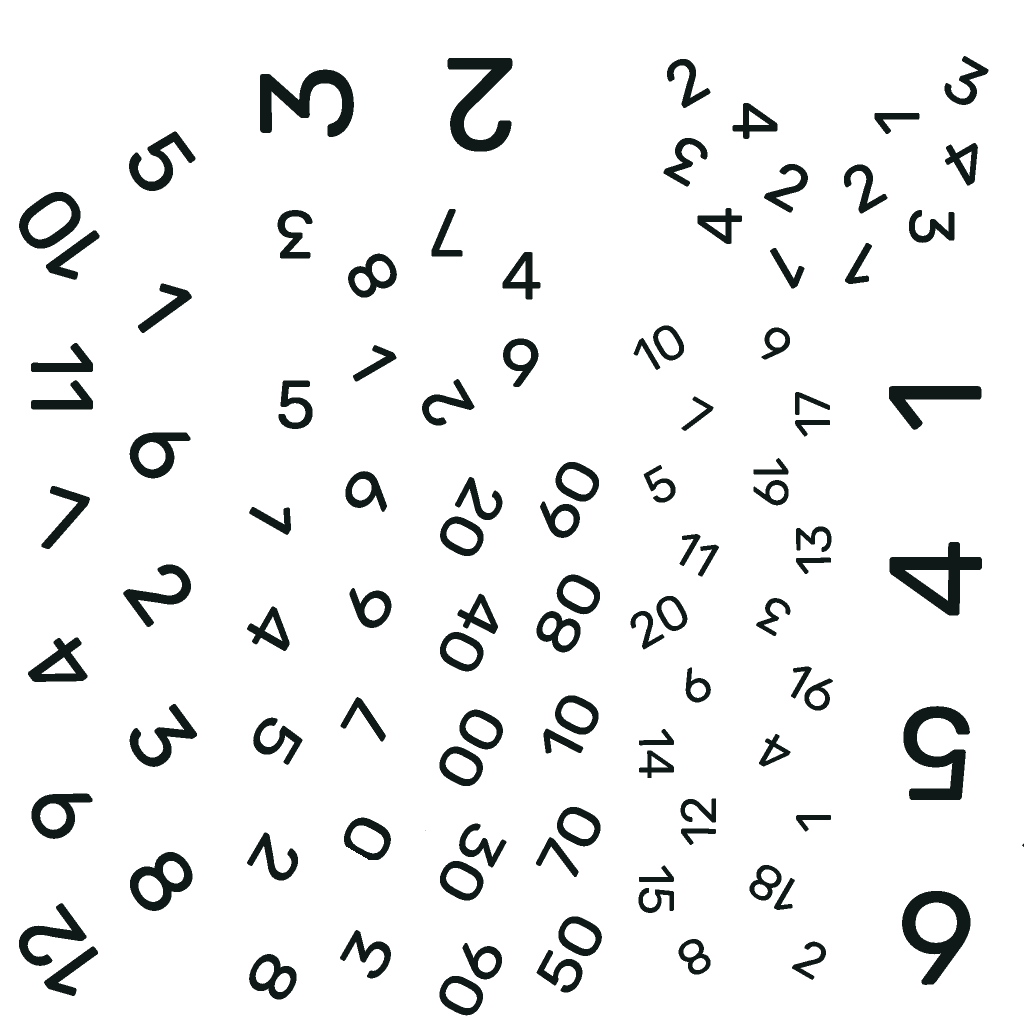
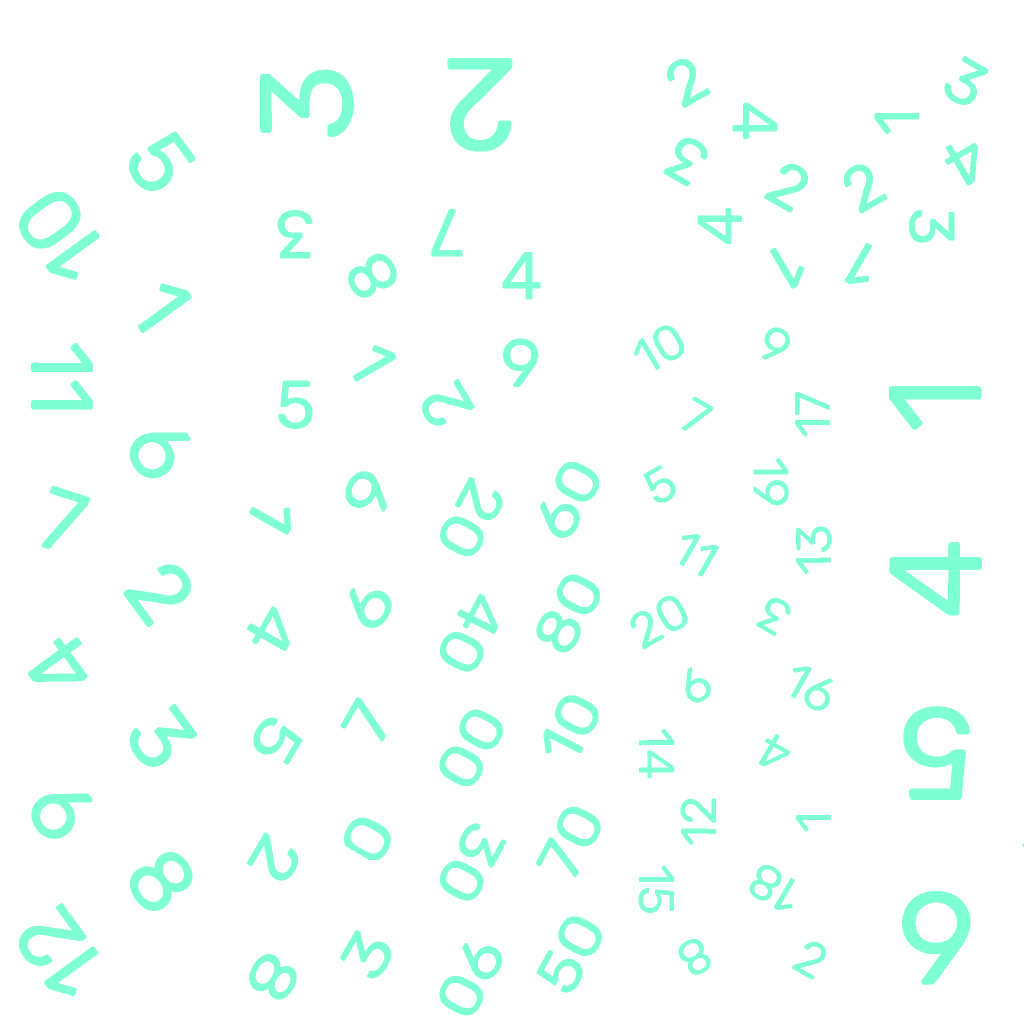
style(initiative): match player die to Add New Token button colors and opponent die to #202020 with #33b8bd numbers

diff --git a/client/src/views/SpaceVttView.vue b/client/src/views/SpaceVttView.vue
@@ -1654,8 +1654,8 @@ async function rollInitiative() {
 
   try {
     const results = await executeQueuedDiceRoll(diceBox, [
-      { sides: 10, theme: 'custom-init-player', themeColor: '#97c966', qty: 1 },
-      { sides: 10, theme: 'custom-init-opp', themeColor: '#0f1a18', qty: 1 }
+      { sides: 10, theme: 'custom-init-player', themeColor: '#021a1e', qty: 1 },
+      { sides: 10, theme: 'custom-init-opp', themeColor: '#202020', qty: 1 }
     ]);
     const initSummary = calculateInitiativeRoll(results);
     if (initSummary.valid) {
@@ -3731,22 +3731,22 @@ onBeforeUnmount(() => {
   box-shadow: inset 0 2px 4px rgba(255, 255, 255, 0.1), 0 4px 12px rgba(0, 0, 0, 0.4);
 }
 .init-player-die {
-  background: #97c966;
-  border: 2px solid #0f1a18;
-  color: #0f1a18;
-  box-shadow: 0 0 12px rgba(151, 201, 102, 0.4), inset 0 2px 4px rgba(255, 255, 255, 0.3);
+  background: #021a1e;
+  border: 2px solid aquamarine;
+  color: aquamarine;
+  box-shadow: 0 0 12px rgba(127, 255, 212, 0.4), inset 0 2px 4px rgba(255, 255, 255, 0.2);
 }
 .init-player-die .init-val {
   text-shadow: 0 0 10px rgba(181, 238, 255, 0.7);
 }
 .init-opp-die {
-  background: #0f1a18;
-  border: 2px solid #97c966;
-  color: #97c966;
-  box-shadow: 0 0 12px rgba(151, 201, 102, 0.3), inset 0 2px 4px rgba(255, 255, 255, 0.1);
+  background: #202020;
+  border: 2px solid #33b8bd;
+  color: #33b8bd;
+  box-shadow: 0 0 12px rgba(51, 184, 189, 0.3), inset 0 2px 4px rgba(255, 255, 255, 0.1);
 }
 .init-opp-die .init-val {
-  text-shadow: 0 0 10px rgba(151, 201, 102, 0.7);
+  text-shadow: 0 0 10px rgba(51, 184, 189, 0.7);
 }
 .init-label {
   font-size: 9px;
@@ -3775,22 +3775,22 @@ onBeforeUnmount(() => {
   font-size: 11px;
 }
 .init-pill-player {
-  background: #97c966;
-  color: #0f1a18;
-  border: 1px solid #0f1a18;
+  background: #021a1e;
+  color: aquamarine;
+  border: 1px solid aquamarine;
   padding: 1px 6px;
   border-radius: 3px;
   font-weight: 700;
-  box-shadow: 0 0 6px rgba(151, 201, 102, 0.35);
+  box-shadow: 0 0 6px rgba(127, 255, 212, 0.35);
 }
 .init-pill-opp {
-  background: #0f1a18;
-  color: #97c966;
-  border: 1px solid #97c966;
+  background: #202020;
+  color: #33b8bd;
+  border: 1px solid #33b8bd;
   padding: 1px 6px;
   border-radius: 3px;
   font-weight: 700;
-  box-shadow: 0 0 6px rgba(151, 201, 102, 0.25);
+  box-shadow: 0 0 6px rgba(51, 184, 189, 0.25);
 }
 
 /* Multi-Turn Flip & Burn */
@@ -5368,10 +5368,10 @@ onBeforeUnmount(() => {
 }
 
 .roll-log-item.initiative .roll-item-badge {
-  background: #0f1a18;
-  color: #97c966;
-  border-color: rgba(151, 201, 102, 0.5);
-  box-shadow: 0 0 6px rgba(151, 201, 102, 0.35);
+  background: #202020;
+  color: #33b8bd;
+  border-color: rgba(51, 184, 189, 0.5);
+  box-shadow: 0 0 6px rgba(51, 184, 189, 0.35);
 }
 
 .roll-item-result {

diff --git a/client/src/views/RpgVttView.vue b/client/src/views/RpgVttView.vue
@@ -1033,8 +1033,8 @@ async function rollInitiative() {
 
   try {
     const results = await executeQueuedDiceRoll(diceBox, [
-      { sides: 10, theme: 'custom-init-player', themeColor: '#97c966', qty: 1 },
-      { sides: 10, theme: 'custom-init-opp', themeColor: '#0f1a18', qty: 1 }
+      { sides: 10, theme: 'custom-init-player', themeColor: '#021a1e', qty: 1 },
+      { sides: 10, theme: 'custom-init-opp', themeColor: '#202020', qty: 1 }
     ]);
     const initSummary = calculateInitiativeRoll(results);
     if (initSummary.valid) {
@@ -2604,22 +2604,22 @@ onBeforeUnmount(() => {
   box-shadow: inset 0 2px 4px rgba(255, 255, 255, 0.1), 0 4px 12px rgba(0, 0, 0, 0.4);
 }
 .init-player-die {
-  background: #97c966;
-  border: 2px solid #0f1a18;
-  color: #0f1a18;
-  box-shadow: 0 0 12px rgba(151, 201, 102, 0.4), inset 0 2px 4px rgba(255, 255, 255, 0.3);
+  background: #021a1e;
+  border: 2px solid aquamarine;
+  color: aquamarine;
+  box-shadow: 0 0 12px rgba(127, 255, 212, 0.4), inset 0 2px 4px rgba(255, 255, 255, 0.2);
 }
 .init-player-die .init-val {
   text-shadow: 0 0 10px rgba(181, 238, 255, 0.7);
 }
 .init-opp-die {
-  background: #0f1a18;
-  border: 2px solid #97c966;
-  color: #97c966;
-  box-shadow: 0 0 12px rgba(151, 201, 102, 0.3), inset 0 2px 4px rgba(255, 255, 255, 0.1);
+  background: #202020;
+  border: 2px solid #33b8bd;
+  color: #33b8bd;
+  box-shadow: 0 0 12px rgba(51, 184, 189, 0.3), inset 0 2px 4px rgba(255, 255, 255, 0.1);
 }
 .init-opp-die .init-val {
-  text-shadow: 0 0 10px rgba(151, 201, 102, 0.7);
+  text-shadow: 0 0 10px rgba(51, 184, 189, 0.7);
 }
 .init-label {
   font-size: 9px;
@@ -2648,22 +2648,22 @@ onBeforeUnmount(() => {
   font-size: 11px;
 }
 .init-pill-player {
-  background: #97c966;
-  color: #0f1a18;
-  border: 1px solid #0f1a18;
+  background: #021a1e;
+  color: aquamarine;
+  border: 1px solid aquamarine;
   padding: 1px 6px;
   border-radius: 3px;
   font-weight: 700;
-  box-shadow: 0 0 6px rgba(151, 201, 102, 0.35);
+  box-shadow: 0 0 6px rgba(127, 255, 212, 0.35);
 }
 .init-pill-opp {
-  background: #0f1a18;
-  color: #97c966;
-  border: 1px solid #97c966;
+  background: #202020;
+  color: #33b8bd;
+  border: 1px solid #33b8bd;
   padding: 1px 6px;
   border-radius: 3px;
   font-weight: 700;
-  box-shadow: 0 0 6px rgba(151, 201, 102, 0.25);
+  box-shadow: 0 0 6px rgba(51, 184, 189, 0.25);
 }
 
 .modal-error-banner {
@@ -4099,10 +4099,10 @@ onBeforeUnmount(() => {
 }
 
 .roll-log-item.initiative .roll-item-badge {
-  background: #0f1a18;
-  color: #97c966;
-  border-color: rgba(151, 201, 102, 0.5);
-  box-shadow: 0 0 6px rgba(151, 201, 102, 0.35);
+  background: #202020;
+  color: #33b8bd;
+  border-color: rgba(51, 184, 189, 0.5);
+  box-shadow: 0 0 6px rgba(51, 184, 189, 0.35);
 }
 
 .roll-item-result {

diff --git a/client/src/utils/diceUtils.js b/client/src/utils/diceUtils.js
@@ -77,8 +77,8 @@ export function calculatePercentileRoll(results) {
 
 /**
  * Processes settled die objects from @3d-dice/dice-box for combat initiative.
- * Die #1 (Players): theme 'custom-init-player', themeColor '#97c966' (legacy: '#97e847', '#97f23d', '#70e6b3', '#12415a', '#0b222e').
- * Die #2 (Opposition): theme 'custom-init-opp', themeColor '#0f1a18' (legacy: '#09201b', '#07221c', '#124a3d', '#1d705d', '#6f0e39', '#400a22').
+ * Die #1 (Players): theme 'custom-init-player', themeColor '#021a1e' (legacy: '#97c966', '#97e847', '#97f23d', '#70e6b3', '#12415a', '#0b222e').
+ * Die #2 (Opposition): theme 'custom-init-opp', themeColor '#202020' (legacy: '#0f1a18', '#09201b', '#07221c', '#124a3d', '#1d705d', '#6f0e39', '#400a22').
  * On a d10 face showing 0 (raw value 0 or 10), the roll value is 10 (range 1-10).
  *
  * @param {Array} results
@@ -94,9 +94,10 @@ export function calculateInitiativeRoll(results) {
     return { playerRoll: 0, oppRoll: 0, winner: 'tie', valid: false };
   }
 
-  // Find player die: theme 'custom-init-player', themeColor '#97c966' / '#97e847' / '#97f23d' / '#70e6b3' / '#12415a' / '#0b222e' / '#17304a', or groupId 0
+  // Find player die: theme 'custom-init-player', themeColor '#021a1e' / '#97c966' / '#97e847' / '#97f23d' / '#70e6b3' / '#12415a' / '#0b222e' / '#17304a', or groupId 0
   const playerDie = flat.find(d =>
     d?.theme === 'custom-init-player' ||
+    d?.themeColor?.toLowerCase() === '#021a1e' ||
     d?.themeColor?.toLowerCase() === '#97c966' ||
     d?.themeColor?.toLowerCase() === '#97e847' ||
     d?.themeColor?.toLowerCase() === '#97f23d' ||
@@ -107,10 +108,11 @@ export function calculateInitiativeRoll(results) {
     d?.groupId === 0
   ) || flat[0];
 
-  // Find opposition die: theme 'custom-init-opp', themeColor '#0f1a18' / '#09201b' / '#07221c' / '#124a3d' / '#1d705d' / '#6f0e39' / '#400a22', or groupId 1
+  // Find opposition die: theme 'custom-init-opp', themeColor '#202020' / '#0f1a18' / '#09201b' / '#07221c' / '#124a3d' / '#1d705d' / '#6f0e39' / '#400a22', or groupId 1
   const oppDie = flat.find(d =>
     d !== playerDie && (
       d?.theme === 'custom-init-opp' ||
+      d?.themeColor?.toLowerCase() === '#202020' ||
       d?.themeColor?.toLowerCase() === '#0f1a18' ||
       d?.themeColor?.toLowerCase() === '#09201b' ||
       d?.themeColor?.toLowerCase() === '#07221c' ||

diff --git a/client/test/InitiativeHud.test.js b/client/test/InitiativeHud.test.js
@@ -40,11 +40,12 @@ describe('Initiative Dice & HUD System', () => {
     });
 
     it('defines CSS colors matching user specifications', () => {
-      // Player: body #97c966, border/text #0f1a18
-      expect(spaceContent).toMatch(/#97c966/);
-      expect(spaceContent).toMatch(/#0f1a18/);
+      // Player: body #021a1e, border/text aquamarine
+      expect(spaceContent).toMatch(/#021a1e/);
+      expect(spaceContent).toMatch(/aquamarine/);
+      expect(spaceContent).toMatch(/#202020/);
+      expect(spaceContent).toMatch(/#33b8bd/);
       expect(spaceContent).toMatch(/background:\s*#303030/);
-      // Opposition: body #0f1a18, numbers #97c966
     });
 
     it('defines glow effect box-shadow and text-shadow on initiative HUD banner', () => {
@@ -84,11 +85,12 @@ describe('Initiative Dice & HUD System', () => {
     });
 
     it('defines CSS colors matching user specifications', () => {
-      // Player: body #97c966, border/text #0f1a18
-      expect(rpgContent).toMatch(/#97c966/);
-      expect(rpgContent).toMatch(/#0f1a18/);
+      // Player: body #021a1e, border/text aquamarine
+      expect(rpgContent).toMatch(/#021a1e/);
+      expect(rpgContent).toMatch(/aquamarine/);
+      expect(rpgContent).toMatch(/#202020/);
+      expect(rpgContent).toMatch(/#33b8bd/);
       expect(rpgContent).toMatch(/background:\s*#303030/);
-      // Opposition: body #0f1a18, numbers #97c966
     });
 
     it('defines glow effect box-shadow and text-shadow on initiative HUD banner', () => {
@@ -114,6 +116,16 @@ describe('Initiative Dice & HUD System', () => {
   });
 
   describe('Initiative Roll Winner Determination', () => {
+    it('correctly parses dice rolls with token button and dark gray theme colors (#021a1e player, #202020 opp)', () => {
+      const res = calculateInitiativeRoll([
+        { theme: 'custom-init-player', themeColor: '#021a1e', value: 8 },
+        { theme: 'custom-init-opp', themeColor: '#202020', value: 4 }
+      ]);
+      expect(res.playerRoll).toBe(8);
+      expect(res.oppRoll).toBe(4);
+      expect(res.valid).toBe(true);
+    });
+
     it('correctly parses dice rolls with 30% desaturated inverted theme colors (#97c966 player, #0f1a18 opp)', () => {
       const res = calculateInitiativeRoll([
         { theme: 'custom-init-player', themeColor: '#97c966', value: 8 },

diff --git a/server/build_initiative_themes.js b/server/build_initiative_themes.js
@@ -127,8 +127,8 @@ async function main() {
 
   const filesToCopy = ['default.json', 'package.json', 'specular.jpg', 'theme.config.json'];
 
-  // Player theme numbers: #0f1a18 (desaturated dark spruce on #97c966 die)
-  const playerDiffuse = await makeDiffuse(0x0f, 0x1a, 0x18);
+  // Player theme numbers: aquamarine #7fffd4 on #021a1e die
+  const playerDiffuse = await makeDiffuse(0x7f, 0xff, 0xd4);
   const playerDir = path.join(root, 'public/assets/dice-box/themes/custom-init-player');
   if (!fs.existsSync(playerDir)) fs.mkdirSync(playerDir, { recursive: true });
   for (const f of filesToCopy) {
@@ -137,10 +137,10 @@ async function main() {
   fs.writeFileSync(path.join(playerDir, 'diffuse-light.png'), playerDiffuse);
   fs.writeFileSync(path.join(playerDir, 'diffuse-dark.png'), playerDiffuse);
   fs.writeFileSync(path.join(playerDir, 'normal.png'), normBuffer);
-  console.log('Generated custom-init-player theme (#0f1a18)');
+  console.log('Generated custom-init-player theme (#7fffd4)');
 
-  // Opposition theme numbers: #97c966 (desaturated lime on #0f1a18 die)
-  const oppDiffuse = await makeDiffuse(0x97, 0xc9, 0x66);
+  // Opposition theme numbers: #33b8bd on #202020 die
+  const oppDiffuse = await makeDiffuse(0x33, 0xb8, 0xbd);
   const oppDir = path.join(root, 'public/assets/dice-box/themes/custom-init-opp');
   if (!fs.existsSync(oppDir)) fs.mkdirSync(oppDir, { recursive: true });
   for (const f of filesToCopy) {
@@ -149,7 +149,7 @@ async function main() {
   fs.writeFileSync(path.join(oppDir, 'diffuse-light.png'), oppDiffuse);
   fs.writeFileSync(path.join(oppDir, 'diffuse-dark.png'), oppDiffuse);
   fs.writeFileSync(path.join(oppDir, 'normal.png'), normBuffer);
-  console.log('Generated custom-init-opp theme (#97c966)');
+  console.log('Generated custom-init-opp theme (#33b8bd)');
 }
 
 main().catch(console.error);

diff --git a/client/test/diceUtils.test.js b/client/test/diceUtils.test.js
@@ -228,13 +228,25 @@ describe('calculateInitiativeRoll', () => {
   });
 
   it('identifies dice by themeColor when theme name is not present', () => {
-    // Reverse order input with new desaturated green initiative colors (#97c966 and #0f1a18)
+    // Reverse order input with token button and dark gray initiative colors (#021a1e and #202020)
     const raw = [
-      { value: 6, themeColor: '#0f1a18' },
-      { value: 9, themeColor: '#97c966' },
+      { value: 6, themeColor: '#202020' },
+      { value: 9, themeColor: '#021a1e' },
     ];
     const result = calculateInitiativeRoll(raw);
     expect(result).toEqual({
+      playerRoll: 9,
+      oppRoll: 6,
+      winner: 'players',
+      valid: true,
+    });
+
+    // Also supports previous colors
+    const previousRaw = [
+      { value: 6, themeColor: '#0f1a18' },
+      { value: 9, themeColor: '#97c966' },
+    ];
+    expect(calculateInitiativeRoll(previousRaw)).toEqual({
       playerRoll: 9,
       oppRoll: 6,
       winner: 'players',

diff --git a/client/test/safeDiceRoller.test.js b/client/test/safeDiceRoller.test.js
@@ -38,8 +38,8 @@ describe('safeDiceRoller with executeQueuedDiceRoll', () => {
 
     it('generates player and opposition dice for initiative notation', () => {
       const notation = [
-        { sides: 10, theme: 'custom-init-player', themeColor: '#97c966', qty: 1 },
-        { sides: 10, theme: 'custom-init-opp', themeColor: '#0f1a18', qty: 1 }
+        { sides: 10, theme: 'custom-init-player', themeColor: '#021a1e', qty: 1 },
+        { sides: 10, theme: 'custom-init-opp', themeColor: '#202020', qty: 1 }
       ];
       const results = generateSyntheticRoll(notation);
       expect(results.length).toBe(2);
